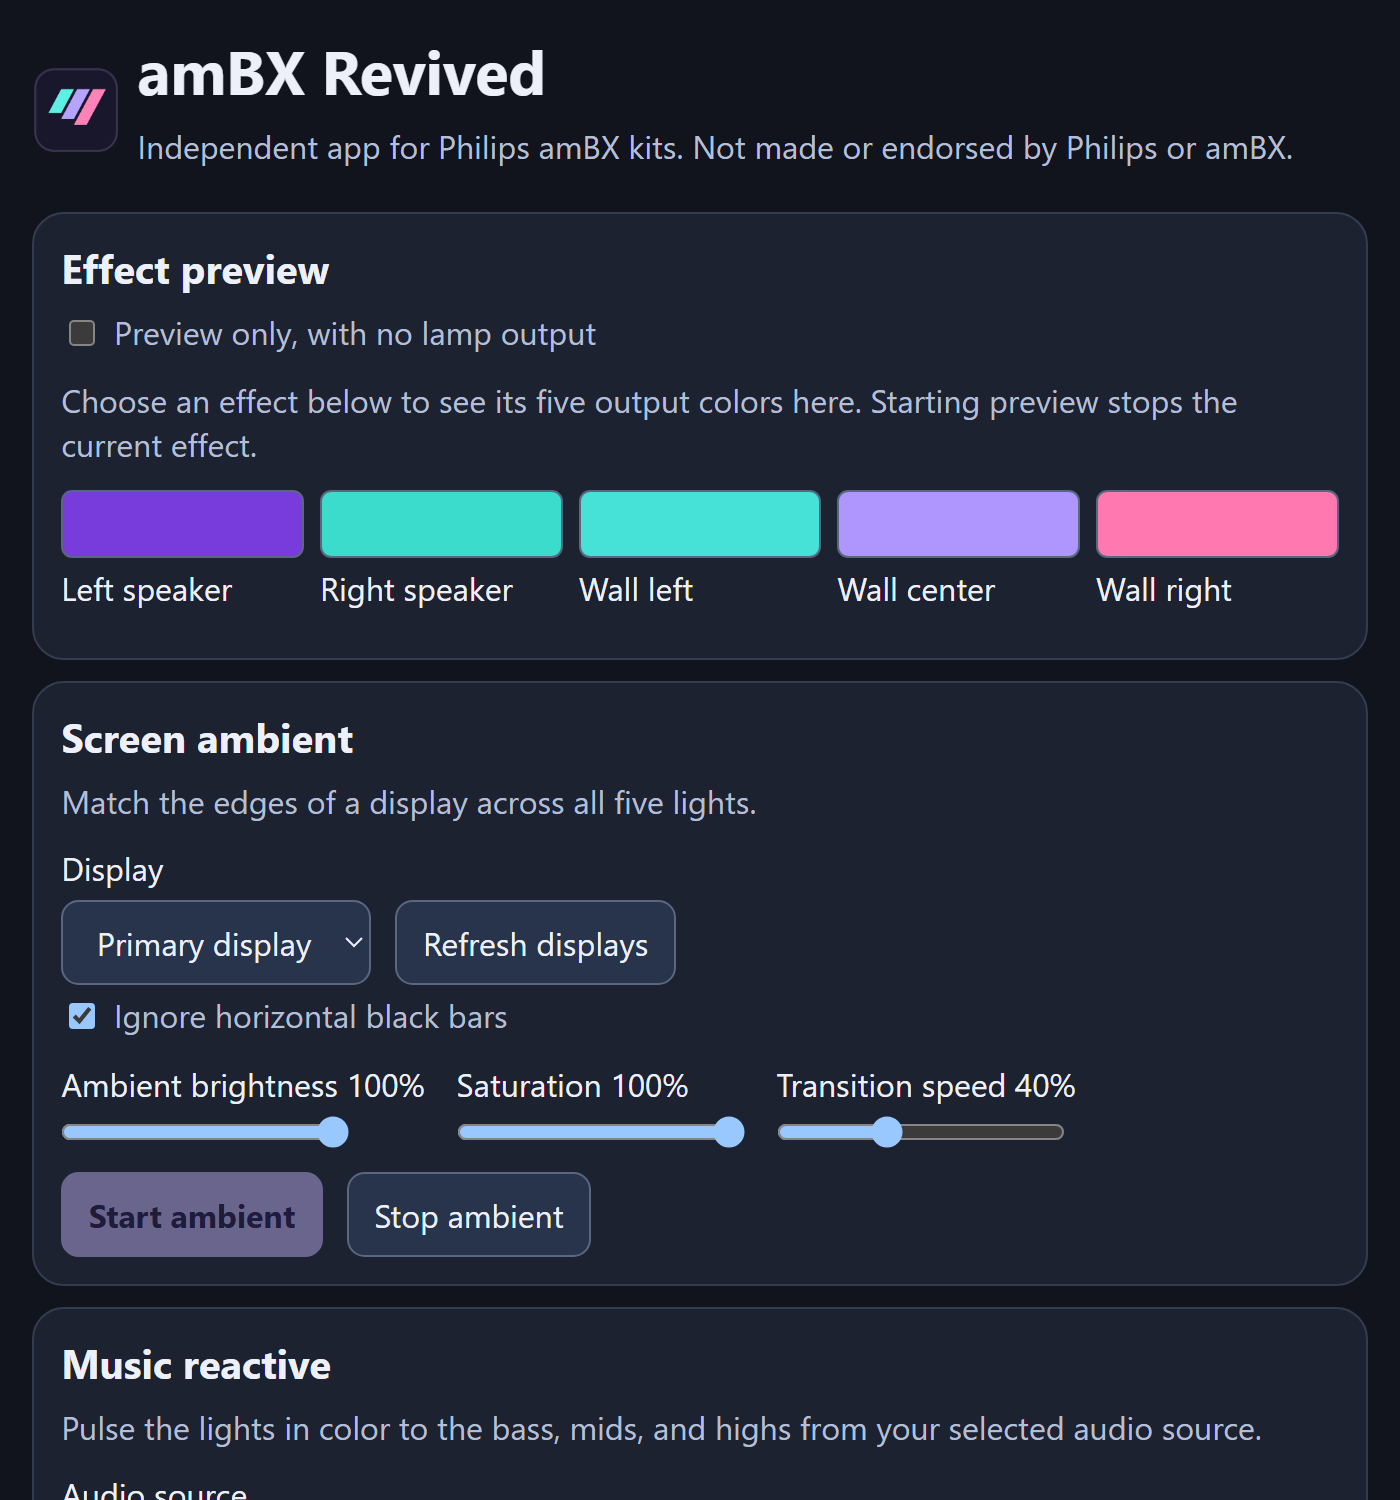
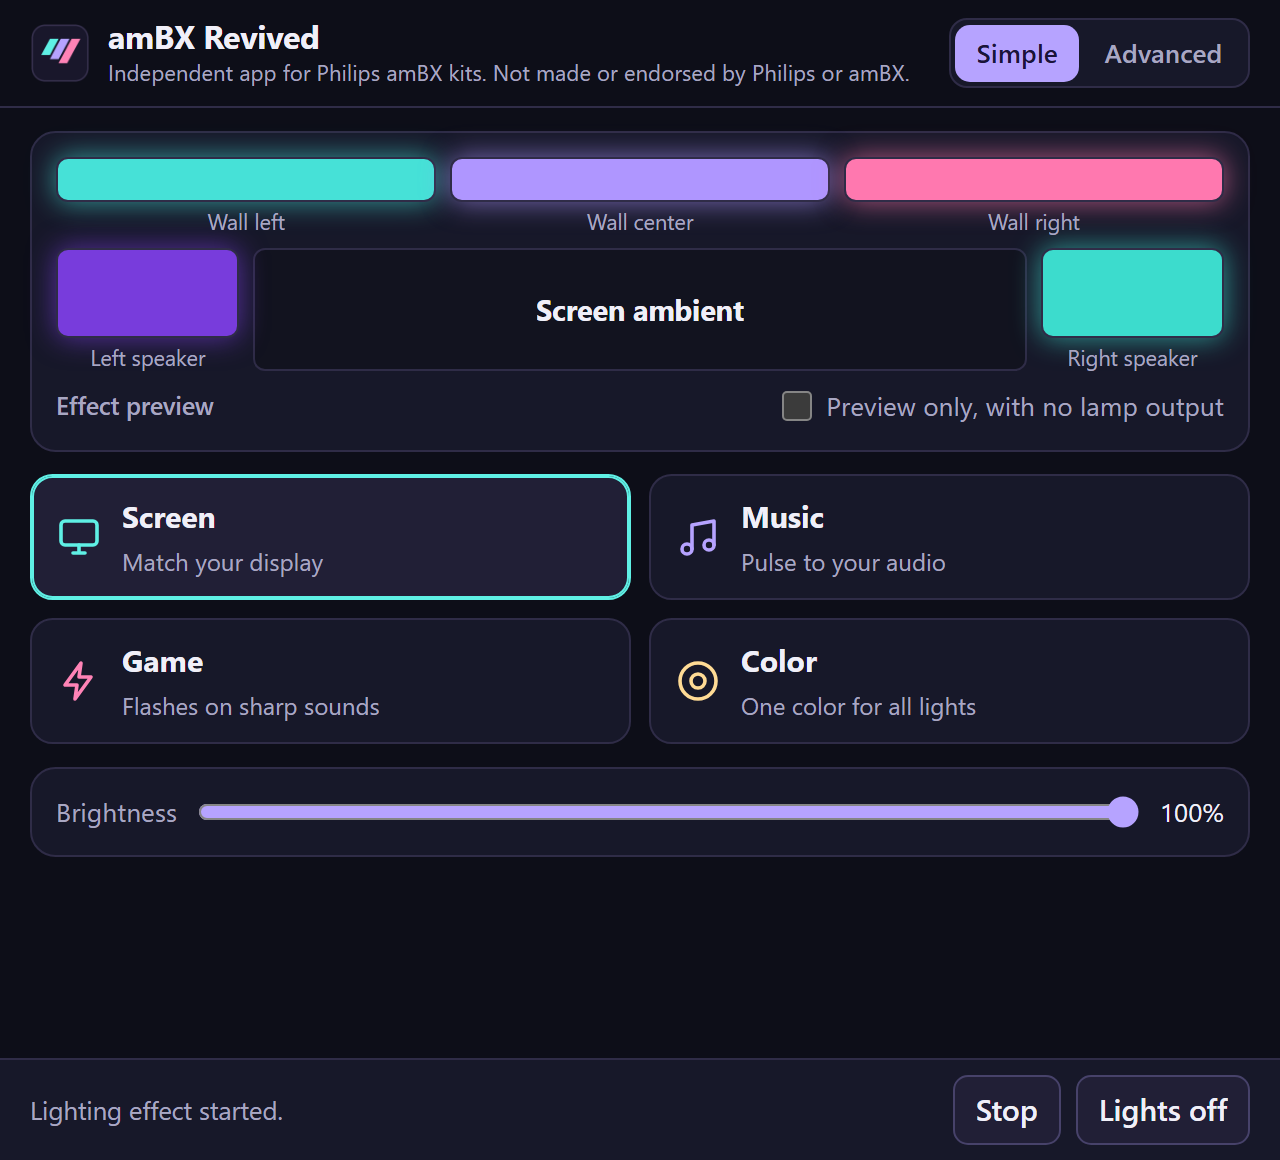
Update the website

diff --git a/index.html b/index.html
@@ -66,7 +66,7 @@
 
   <section class="band">
     <div class="wrap shot">
-      <img src="/assets/app.png" width="1400" height="1500" alt="The amBX Revived window, showing the five zone colors in Effect preview and the Screen ambient settings." loading="lazy">
+      <img src="/assets/app.png" width="1280" height="1160" alt="The amBX Revived window in Simple mode, with the five lamp colors above the Screen, Music, Game and Color cards and a brightness slider." loading="lazy">
       <div>
         <h2>What you need</h2>
         <ul class="facts">
